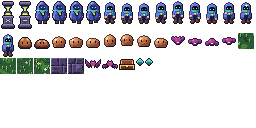
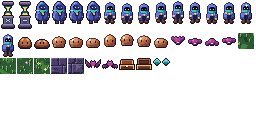
Add open chest art and document pull requests

Changed region(s): [[0.5312, 0.4375, 0.6875, 0.5625]]

diff --git a/README.md b/README.md
@@ -9,4 +9,4 @@ Source art and runtime media for TickHappens. The current collection contains th
 
 With Game checked out beside Assets, run `dotnet run --project tools/TickHappens.AssetTool -- build` from Game. The tool writes the atlas here and previews to Game's `.tmp/preview/`. See the [asset pipeline](https://github.com/Tick-Happens-Team/Game/blob/dev/docs/ASSET_PIPELINE.md) and [art standard](https://github.com/Tick-Happens-Team/Game/blob/dev/docs/ART_STANDARD.md).
 
-The development branch is `dev`. CI on `stable` publishes a versioned atlas ZIP and checksum through GitHub Releases. See [CC BY 4.0 and third-party terms](LICENSE.md).
+Submit changes through a pull request into `dev`. When a Game PR needs the updated atlas, link the two PRs and merge Assets first. Promote tested changes to `stable` through a separate PR. CI on `stable` publishes a versioned atlas ZIP and checksum through GitHub Releases. See [CC BY 4.0 and third-party terms](LICENSE.md).
